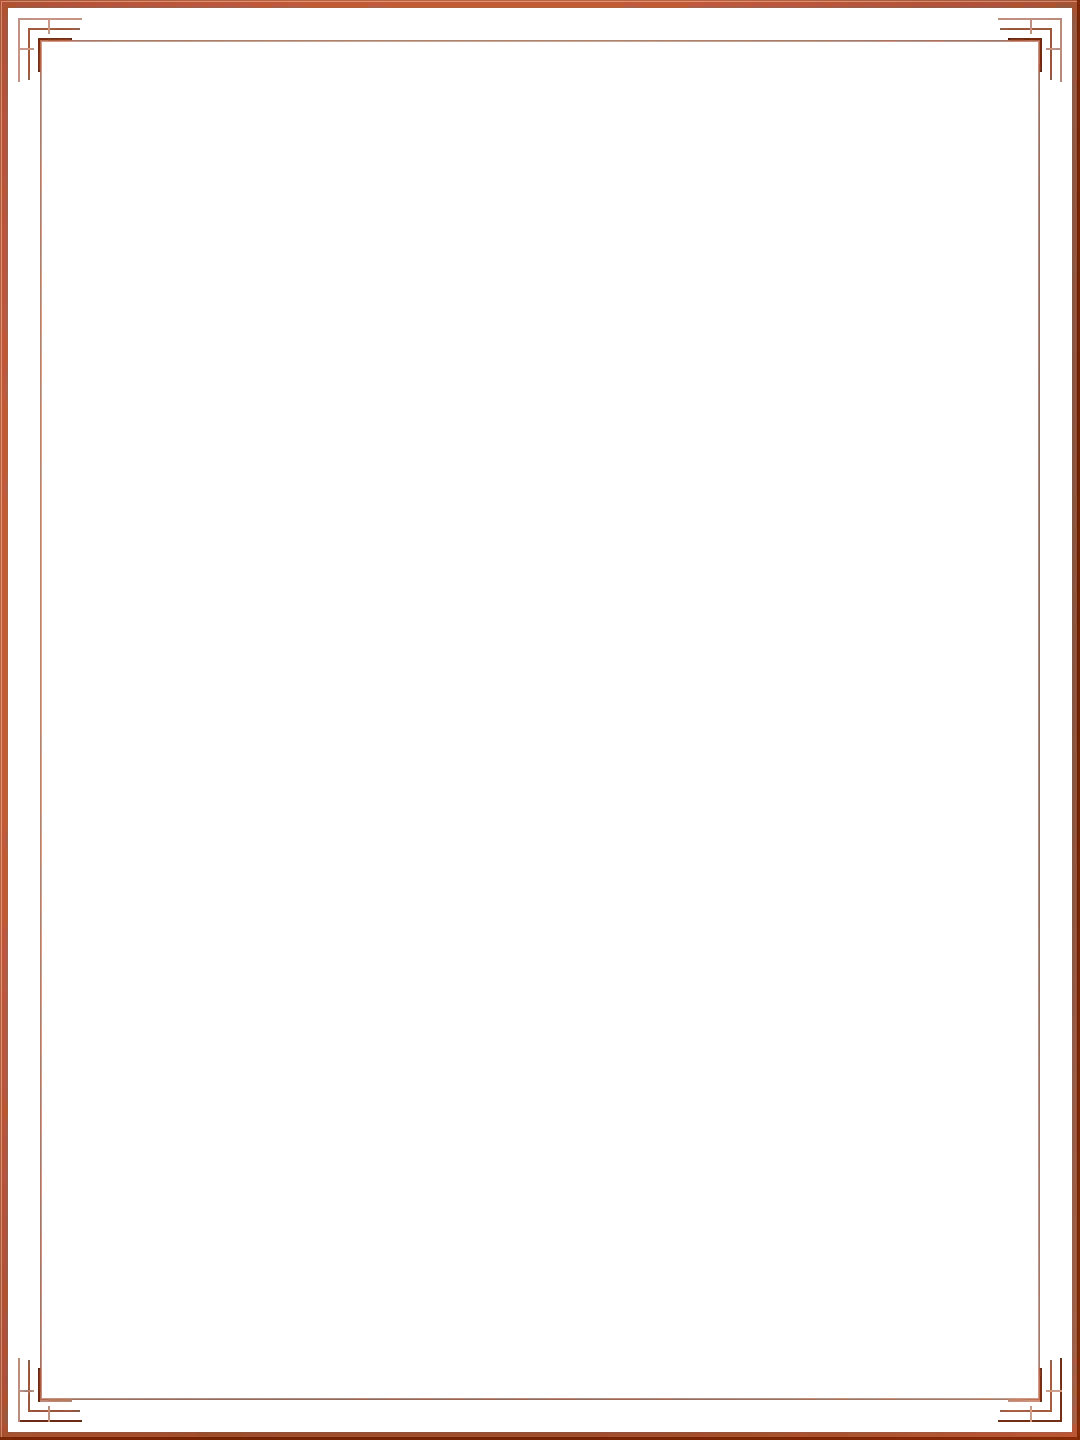
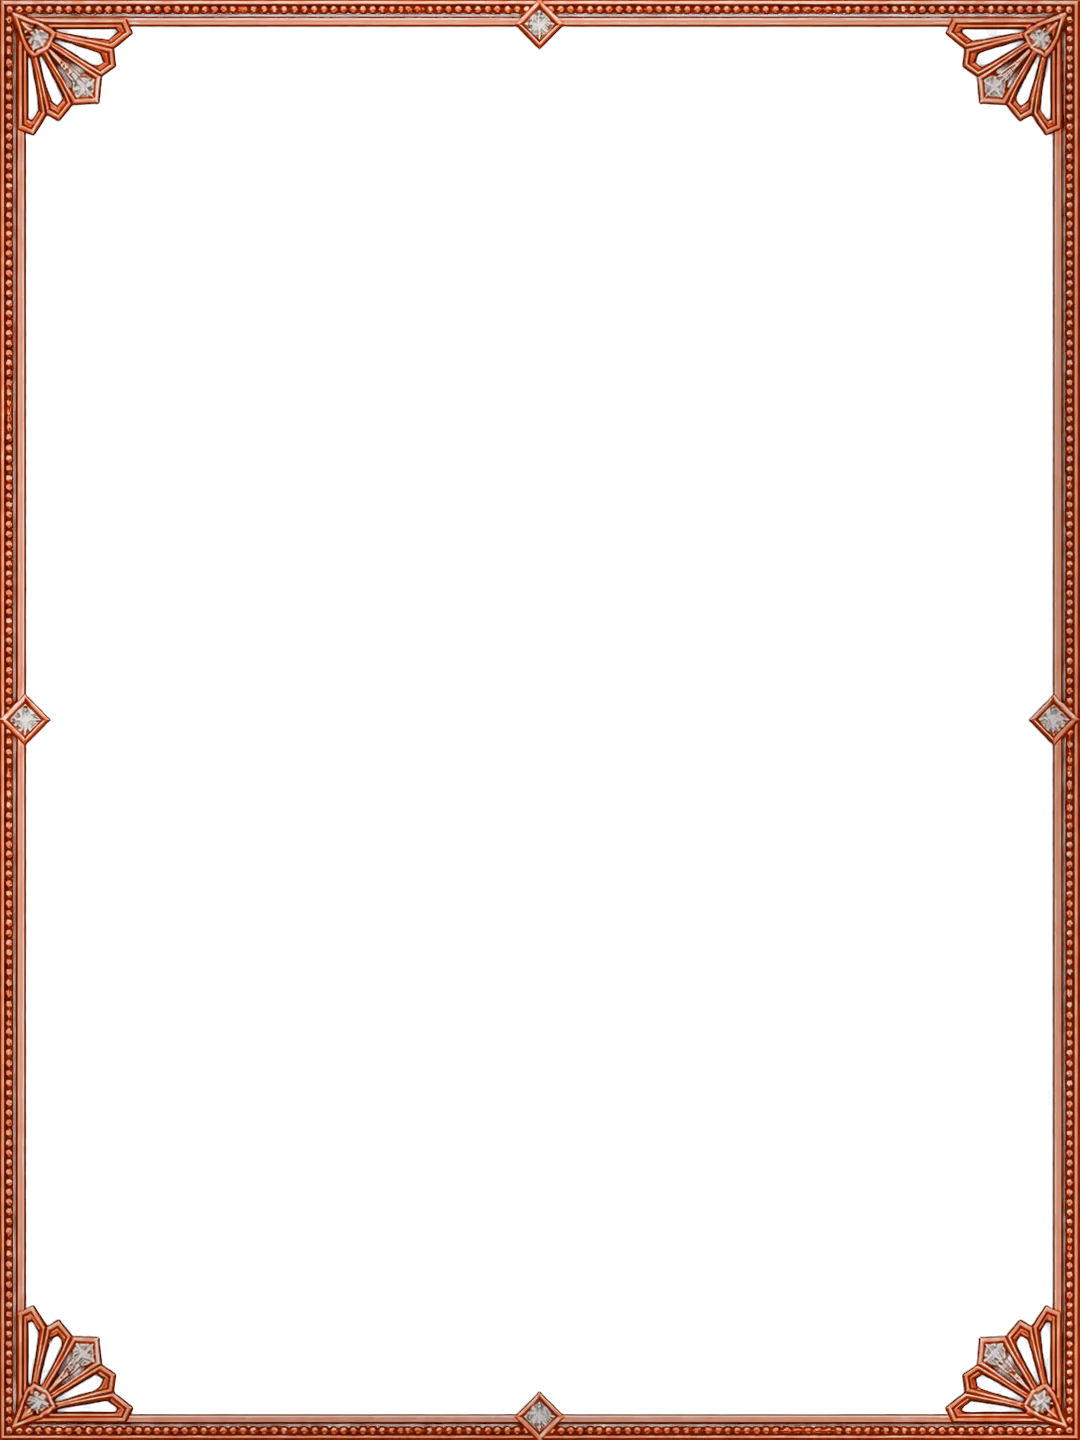
v1.6.37: フレームを細身のまま華やかに刷新／アプデDL後にインストールが始まらない問題を修正

Changed region(s): [[0.0, 0.0, 1.0, 1.0]]

diff --git a/src/updateCheck.js b/src/updateCheck.js
@@ -82,12 +82,19 @@ function showUpdateBanner({ latest, url }) {
 }
 
 // アプリ内アップデート（APK ダウンロード→インストール）。進捗はバナー本文に表示する。
-async function startInAppUpdate(el, url) {
+async function startInAppUpdate(el, url, retry = 0) {
   const btn = el.querySelector('.ub-update');
   const skipBtn = el.querySelector('.ub-skip');
   const textEl = el.querySelector('.ub-text');
   const origText = textEl.innerHTML;
   let listener;
+
+  const resetButtons = (label = '更新する') => {
+    btn.disabled = false;
+    if (skipBtn) skipBtn.disabled = false;
+    btn.textContent = label;
+  };
+
   try {
     btn.disabled = true;
     if (skipBtn) skipBtn.disabled = true;
@@ -101,23 +108,35 @@ async function startInAppUpdate(el, url) {
 
     await ApkInstaller.install({ url });
     textEl.textContent = 'インストールを開始します…';
+
+    // インストーラが開けばアプリはバックグラウンドに落ちる。
+    // 10秒経っても前面のままなら開けていないので再試行できるようにする
+    setTimeout(() => {
+      if (document.visibilityState === 'visible' && document.body.contains(el)) {
+        textEl.textContent = 'インストール画面が開かない場合は、もう一度「更新する」を押してください';
+        resetButtons();
+      }
+    }, 10000);
   } catch (err) {
     const msg = String(err?.message || err || '');
     if (msg.includes('PERMISSION_REQUIRED')) {
       // 提供元不明アプリの許可画面を開いた状態。許可後に再度押してもらう。
       textEl.textContent = 'この端末で「提供元不明アプリのインストール」を許可し、もう一度「更新する」を押してください';
-      btn.disabled = false;
-      if (skipBtn) skipBtn.disabled = false;
-      btn.textContent = '更新する';
+      resetButtons();
+    } else if (msg.includes('INCOMPLETE_DOWNLOAD') && retry < 2) {
+      // 通信断などでダウンロードが不完全 → 自動で再ダウンロード（最大2回）
+      textEl.textContent = 'ダウンロードをやり直しています…';
+      if (listener && listener.remove) { try { await listener.remove(); } catch { /* ignore */ } }
+      listener = null;
+      setTimeout(() => startInAppUpdate(el, url, retry + 1), 1500);
+      return;
     } else {
       textEl.innerHTML = origText;
       const ok = await dlg.confirm('アプリ内更新に失敗しました。\nブラウザでダウンロードページを開きますか？', {
         title: '更新エラー', okLabel: '開く', cancelLabel: '閉じる',
       });
       if (ok) { try { window.open(url, '_system'); } catch { window.open(url, '_blank'); } }
-      btn.disabled = false;
-      if (skipBtn) skipBtn.disabled = false;
-      btn.textContent = '更新する';
+      resetButtons();
     }
   } finally {
     if (listener && listener.remove) { try { await listener.remove(); } catch { /* ignore */ } }

diff --git a/android/app/src/main/java/com/gentlydiva/menu/ApkInstallerPlugin.java b/android/app/src/main/java/com/gentlydiva/menu/ApkInstallerPlugin.java
@@ -69,7 +69,7 @@ public class ApkInstallerPlugin extends Plugin {
                 return;
             }
 
-            int total = conn.getContentLength();
+            long total = conn.getContentLengthLong();
             long downloaded = 0;
             int lastPct = -1;
             try (InputStream in = conn.getInputStream();
@@ -92,11 +92,18 @@ public class ApkInstallerPlugin extends Plugin {
                 out.flush();
             }
 
-            launchInstall(apk);
+            // 途中で切れた不完全な APK でインストーラを起動しない
+            // （通信断で read が -1 を返して正常終了に見えるケース対策）
+            if (total > 0 && downloaded != total) {
+                call.reject("INCOMPLETE_DOWNLOAD");
+                return;
+            }
+            if (downloaded < 1024 * 100) {   // 100KB 未満は APK として異常
+                call.reject("INCOMPLETE_DOWNLOAD");
+                return;
+            }
 
-            JSObject ret = new JSObject();
-            ret.put("ok", true);
-            call.resolve(ret);
+            launchInstall(call, apk);
         } catch (Exception e) {
             call.reject("ダウンロードエラー: " + e.getMessage());
         } finally {
@@ -104,12 +111,23 @@ public class ApkInstallerPlugin extends Plugin {
         }
     }
 
-    private void launchInstall(File apk) {
-        Uri uri = FileProvider.getUriForFile(getContext(),
-                getContext().getPackageName() + ".fileprovider", apk);
-        Intent intent = new Intent(Intent.ACTION_VIEW);
-        intent.setDataAndType(uri, "application/vnd.android.package-archive");
-        intent.addFlags(Intent.FLAG_ACTIVITY_NEW_TASK | Intent.FLAG_GRANT_READ_URI_PERMISSION);
-        getContext().startActivity(intent);
+    private void launchInstall(PluginCall call, File apk) {
+        // startActivity はワーカースレッドから呼ぶと端末によって黙って失敗するため
+        // 必ず UI スレッドで実行し、失敗はエラーとして JS 側へ返す
+        getActivity().runOnUiThread(() -> {
+            try {
+                Uri uri = FileProvider.getUriForFile(getContext(),
+                        getContext().getPackageName() + ".fileprovider", apk);
+                Intent intent = new Intent(Intent.ACTION_VIEW);
+                intent.setDataAndType(uri, "application/vnd.android.package-archive");
+                intent.addFlags(Intent.FLAG_ACTIVITY_NEW_TASK | Intent.FLAG_GRANT_READ_URI_PERMISSION);
+                getContext().startActivity(intent);
+                JSObject ret = new JSObject();
+                ret.put("ok", true);
+                call.resolve(ret);
+            } catch (Exception e) {
+                call.reject("INSTALL_LAUNCH_FAILED: " + e.getMessage());
+            }
+        });
     }
 }
